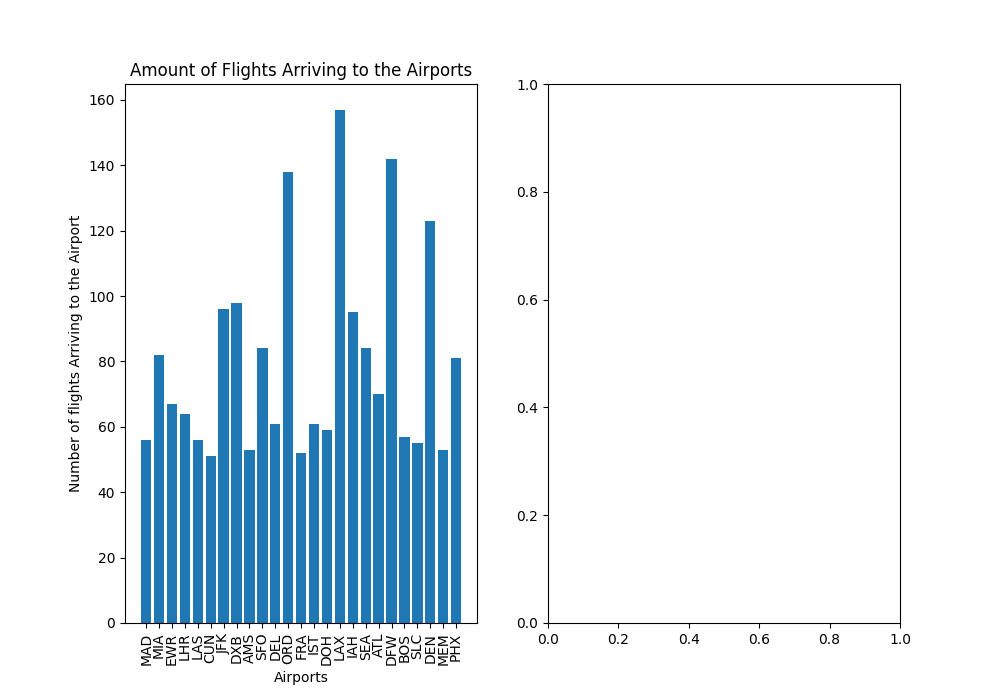
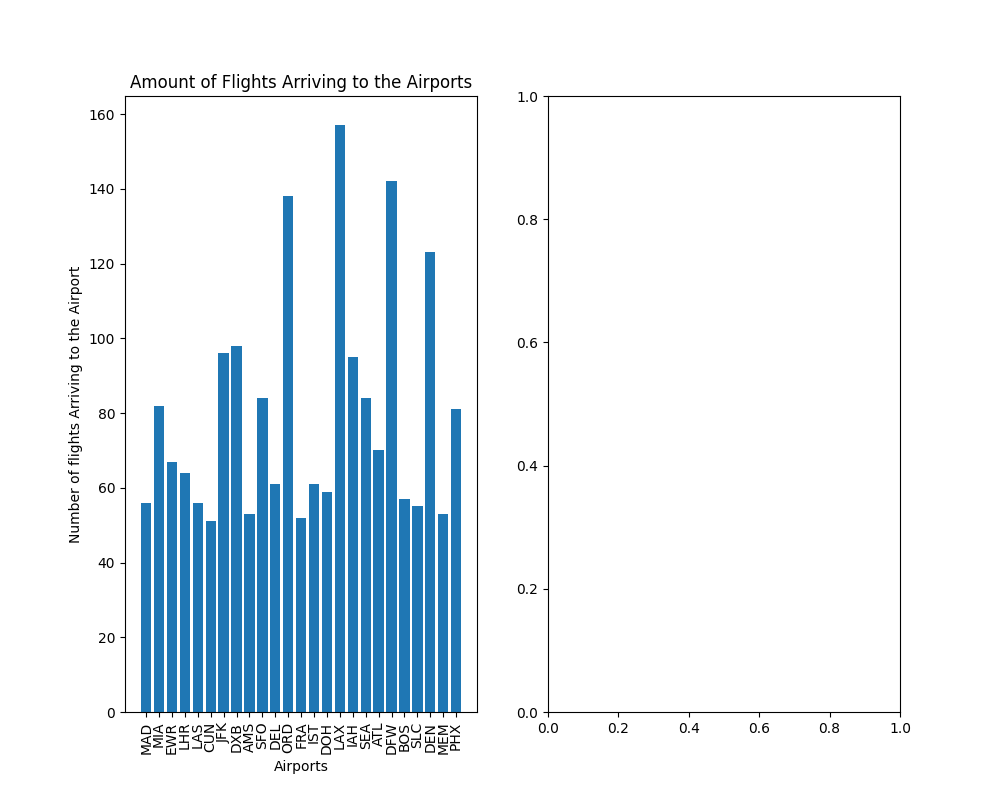
Added 2000-2019 range data

diff --git a/test_file.py b/test_file.py
@@ -31,7 +31,7 @@ print(len(airportDictionaryRestrictions))
 destinations = []
 incomingFlights = [1, 4, 9, 16, 25]
 
-fig, axs = plt.subplots(1, 2, figsize=(10, 7))
+fig, axs = plt.subplots(1, 2, figsize=(10, 8))
 
 # Bar Chart
 axs[0].set_title("Amount of Flights Arriving to the Airports")
@@ -49,10 +49,8 @@ for index,selectedCountries in enumerate(pd.read_csv("Data for tourists CSV.csv"
         countryDictionary[selectedCountries].append(pd.read_csv("Data for tourists CSV.csv")["TotalArrivals"][index])
     except:
         countryDictionary[selectedCountries] = [pd.read_csv("Data for tourists CSV.csv")["TotalArrivals"][index]]
-    counter=counter+1
-axs[1].plot(countryDictionary.keys(),countryDictionary.values())
-axs[1].set_xticklabels(countryDictionary.keys(),rotation=90)
-print(len(countryDictionary))
+
+# print(countryDictionary)
 
 #countryDictionaryRestrictions = dict(countryDictionary)
 #for key, dictionaryValue in countryDictionary.items():
@@ -60,13 +58,50 @@ print(len(countryDictionary))
   #      del countryDictionaryRestrictions[key]
 #print(len(countryDictionaryRestrictions))
 
+dictV2={}
 
+for eachCount,listValues in countryDictionary.items():
+    if eachCount in ["Turkey","United Kingdom","United States of America","Spain","Bahrain"]:
+        dictV2[eachCount]=listValues
 
+years=[]
+for year in range(20):
+    years.append(2000+year)
+
+countMe=0
+dictV3=dict({})
+
+for place,listValues in dictV2.items():
+    for eachYearValue in listValues:
+        if countMe>=5:
+            try:
+                if place=="United Kingdom":
+                    dictV3["UK"].append(eachYearValue)
+                elif place=="United States of America":
+                    dictV3["USA"].append(eachYearValue)
+                else:
+                    dictV3[place].append(eachYearValue)
+            except:
+                if place=="United Kingdom":
+                    dictV3["UK"]=[eachYearValue]
+                elif place=="United States of America":
+                    dictV3["USA"]=[eachYearValue]
+                else:
+                    dictV3[place] = [eachYearValue]
+        countMe+=1
+    countMe=0
+
+print(years)
+print(dictV3)
+
+axs[1].plot(dictV3.keys(),dictV3.values(),label=years)
+axs[1].set_xticklabels(dictV3.keys(),rotation=90)
+axs[1].legend(loc="upper right")
 
 # Line Graph
 axs[1].set_title("Popular Tourist Destinations Based on Country")
-axs[1].set_xlabel("Countries")
-axs[1].set_ylabel("")
-axs[1].plot()
+# axs[1].set_xlabel("Countries")
+# axs[1].set_ylabel("")
+# axs[1].plot()
 
 plt.show()
